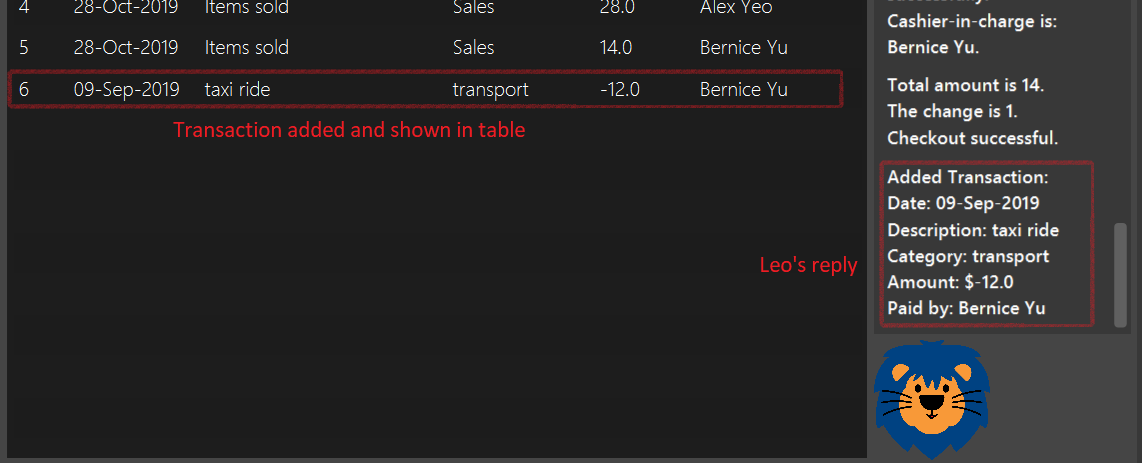
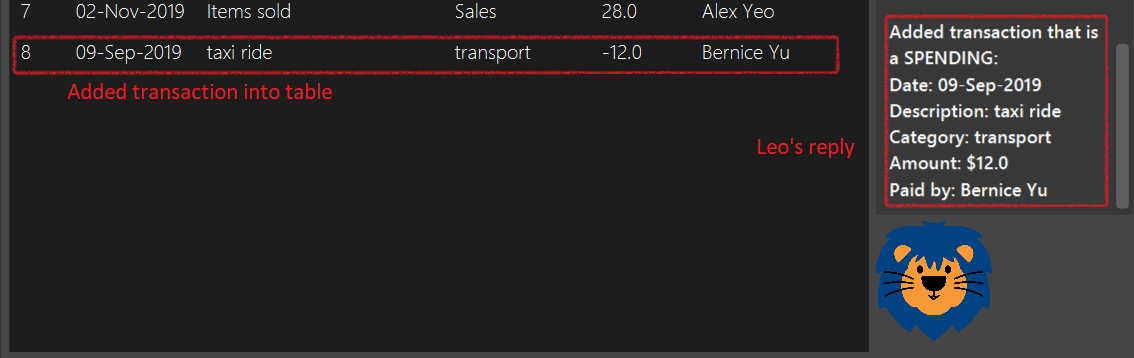
Edits response messages for Leo for transactions.

diff --git a/src/test/java/seedu/address/transaction/logic/commands/EditCommandTest.java b/src/test/java/seedu/address/transaction/logic/commands/EditCommandTest.java
@@ -6,8 +6,9 @@ import static seedu.address.testutil.TypicalPersons.getTypicalAddressBook;
 import static seedu.address.transaction.logic.commands.CommandTestUtil.assertCommandFailure;
 import static seedu.address.transaction.logic.commands.CommandTestUtil.assertCommandSuccess;
 import static seedu.address.transaction.logic.commands.CommandTestUtil.showTransactionsOfPerson;
+import static seedu.address.transaction.ui.TransactionMessages.MESSAGE_NEGATIVE_TRANSACTION_EDITED;
 import static seedu.address.transaction.ui.TransactionMessages.MESSAGE_NO_SUCH_TRANSACTION;
-import static seedu.address.transaction.ui.TransactionMessages.MESSAGE_TRANSACTION_EDITED;
+import static seedu.address.transaction.ui.TransactionMessages.MESSAGE_POSITIVE_TRANSACTION_EDITED;
 
 import org.junit.jupiter.api.Test;
 
@@ -18,6 +19,7 @@ import seedu.address.testutil.EditTransactionDescriptorBuilder;
 import seedu.address.testutil.TransactionBuilder;
 import seedu.address.testutil.TypicalPersons;
 import seedu.address.testutil.TypicalTransactions;
+import seedu.address.transaction.model.Model;
 import seedu.address.transaction.model.ModelManager;
 import seedu.address.transaction.model.transaction.Transaction;
 
@@ -35,7 +37,7 @@ class EditCommandTest {
                 .build();
         EditCommand editCommand = new EditCommand(1, descriptor);
 
-        String expectedMessage = String.format(MESSAGE_TRANSACTION_EDITED, editedTransaction);
+        String expectedMessage = String.format(MESSAGE_POSITIVE_TRANSACTION_EDITED, editedTransaction);
 
         ModelManager expectedModel = new ModelManager(TypicalTransactions.getTypicalTransactionList());
         expectedModel.setTransaction(model.getFilteredList().get(0), editedTransaction);
@@ -54,7 +56,7 @@ class EditCommandTest {
                 .build();
         EditCommand editCommand = new EditCommand(filterListSize, descriptor);
 
-        String expectedMessage = String.format(MESSAGE_TRANSACTION_EDITED, editedTransaction);
+        String expectedMessage = String.format(MESSAGE_POSITIVE_TRANSACTION_EDITED, editedTransaction);
 
         ModelManager expectedModel = new ModelManager(TypicalTransactions.getTypicalTransactionList());
         expectedModel.setTransaction(lastTransaction, editedTransaction);;
@@ -67,9 +69,23 @@ class EditCommandTest {
         EditCommand editCommand = new EditCommand(1, new EditCommand.EditTransactionDescriptor());
         Transaction editedTransaction = model.getFilteredList().get(0);
 
-        String expectedMessage = String.format(MESSAGE_TRANSACTION_EDITED, editedTransaction);
+        String expectedMessage = String.format(MESSAGE_POSITIVE_TRANSACTION_EDITED, editedTransaction);
 
         ModelManager expectedModel = new ModelManager(TypicalTransactions.getTypicalTransactionList());
+
+        assertCommandSuccess(editCommand, model, expectedMessage, expectedModel, personModel);
+    }
+
+    @Test
+    public void execute_noFieldSpecifiedUnfilteredListNegativeTransaction_success() {
+        Model model = new ModelManager(new TypicalTransactions().getTransactionListWithReimbursementNeeded());
+        EditCommand editCommand = new EditCommand(1, new EditCommand.EditTransactionDescriptor());
+        Transaction editedTransaction = model.getFilteredList().get(0);
+
+        String expectedMessage = String.format(MESSAGE_NEGATIVE_TRANSACTION_EDITED, editedTransaction);
+
+        ModelManager expectedModel = new ModelManager(new TypicalTransactions()
+                .getTransactionListWithReimbursementNeeded());
 
         assertCommandSuccess(editCommand, model, expectedMessage, expectedModel, personModel);
     }
@@ -84,7 +100,7 @@ class EditCommandTest {
         EditCommand editCommand = new EditCommand(1,
                 new EditTransactionDescriptorBuilder(editedTransaction).build());
 
-        String expectedMessage = String.format(MESSAGE_TRANSACTION_EDITED, editedTransaction);
+        String expectedMessage = String.format(MESSAGE_POSITIVE_TRANSACTION_EDITED, editedTransaction);
 
         ModelManager expectedModel = new ModelManager(TypicalTransactions.getTypicalTransactionList());
         showTransactionsOfPerson(expectedModel, TypicalPersons.BENSON.getName().toString());
@@ -103,7 +119,7 @@ class EditCommandTest {
         EditCommand editCommand = new EditCommand(1,
                 new EditTransactionDescriptorBuilder(editedTransaction).build());
 
-        String expectedMessage = String.format(MESSAGE_TRANSACTION_EDITED, editedTransaction);
+        String expectedMessage = String.format(MESSAGE_POSITIVE_TRANSACTION_EDITED, editedTransaction);
 
         ModelManager expectedModel = new ModelManager(TypicalTransactions.getTypicalTransactionList());
         showTransactionsOfPerson(expectedModel, TypicalPersons.BENSON.getName().toString());
@@ -120,7 +136,7 @@ class EditCommandTest {
         EditCommand editCommand = new EditCommand(1,
                 new EditTransactionDescriptorBuilder().build());
 
-        String expectedMessage = String.format(MESSAGE_TRANSACTION_EDITED, editedTransaction);
+        String expectedMessage = String.format(MESSAGE_POSITIVE_TRANSACTION_EDITED, editedTransaction);
 
         ModelManager expectedModel = new ModelManager(TypicalTransactions.getTypicalTransactionList());
         showTransactionsOfPerson(expectedModel, TypicalPersons.BENSON.getName().toString());

diff --git a/src/test/java/seedu/address/transaction/logic/commands/DeleteIndexCommandTest.java b/src/test/java/seedu/address/transaction/logic/commands/DeleteIndexCommandTest.java
@@ -7,7 +7,8 @@ import static seedu.address.testutil.TypicalPersons.getTypicalAddressBook;
 import static seedu.address.transaction.logic.commands.CommandTestUtil.assertCommandFailure;
 import static seedu.address.transaction.logic.commands.CommandTestUtil.assertCommandSuccess;
 import static seedu.address.transaction.logic.commands.CommandTestUtil.showTransactionsOfPerson;
-import static seedu.address.transaction.ui.TransactionMessages.MESSAGE_DELETE_TRANSACTION;
+import static seedu.address.transaction.ui.TransactionMessages.MESSAGE_DELETE_NEGATIVE_TRANSACTION;
+import static seedu.address.transaction.ui.TransactionMessages.MESSAGE_DELETE_POSITIVE_TRANSACTION;
 
 import java.util.function.Predicate;
 
@@ -37,9 +38,23 @@ class DeleteIndexCommandTest {
     //this uses model stub
     void execute_validIndexUnfilteredList_successful() {
         DeleteIndexCommand deleteIndexCommand = new DeleteIndexCommand(1);
-        String message = String.format(MESSAGE_DELETE_TRANSACTION, TypicalTransactions.ALICE_TRANSACTION_1);
+        String message = String.format(MESSAGE_DELETE_POSITIVE_TRANSACTION, TypicalTransactions.ALICE_TRANSACTION_1);
         ModelManager expectedModel = new
                 ModelManager(TypicalTransactions.getTypicalTransactionList());
+        System.out.println(expectedModel.getTransactionList().get(0));
+        expectedModel.deleteTransaction(1);
+        assertCommandSuccess(deleteIndexCommand, model, message,
+                expectedModel, personModel);
+    }
+
+    @Test
+    void execute_validIndexUnfilteredListNegativeTransaction_successful() {
+        ModelManager model = new ModelManager(new TypicalTransactions().getTransactionListWithReimbursementNeeded());
+        DeleteIndexCommand deleteIndexCommand = new DeleteIndexCommand(1);
+        String message = String.format(MESSAGE_DELETE_NEGATIVE_TRANSACTION,
+                new TypicalTransactions().getTransactionsWithReimbursements().get(0));
+        ModelManager expectedModel = new
+                ModelManager(new TypicalTransactions().getTransactionListWithReimbursementNeeded());
         System.out.println(expectedModel.getTransactionList().get(0));
         expectedModel.deleteTransaction(1);
         assertCommandSuccess(deleteIndexCommand, model, message,
@@ -61,7 +76,8 @@ class DeleteIndexCommandTest {
         showTransactionsOfPerson(model, TypicalPersons.BENSON.getName().toString());
         DeleteIndexCommand deleteCommand = new DeleteIndexCommand(1);
 
-        String expectedMessage = String.format(MESSAGE_DELETE_TRANSACTION, TypicalTransactions.BENSON_TRANSACTION_2);
+        String expectedMessage = String.format(MESSAGE_DELETE_POSITIVE_TRANSACTION,
+                TypicalTransactions.BENSON_TRANSACTION_2);
 
         Model expectedModel = new ModelManager(TypicalTransactions.getTypicalTransactionList());
         expectedModel.deleteTransaction(2);

diff --git a/src/test/java/seedu/address/transaction/logic/commands/AddCommandTest.java b/src/test/java/seedu/address/transaction/logic/commands/AddCommandTest.java
@@ -7,7 +7,8 @@ import static seedu.address.testutil.Assert.assertThrows;
 import static seedu.address.testutil.TypicalPersons.getTypicalAddressBook;
 import static seedu.address.transaction.logic.commands.CommandTestUtil.assertCommandSuccess;
 import static seedu.address.transaction.logic.commands.CommandTestUtil.showTransactionsOfPerson;
-import static seedu.address.transaction.ui.TransactionMessages.MESSAGE_ADD_TRANSACTION;
+import static seedu.address.transaction.ui.TransactionMessages.MESSAGE_ADD_NEGATIVE_TRANSACTION;
+import static seedu.address.transaction.ui.TransactionMessages.MESSAGE_ADD_POSITIVE_TRANSACTION;
 
 import java.util.Arrays;
 
@@ -41,7 +42,21 @@ class AddCommandTest {
                 new TransactionModelStubAcceptingTransactionAdded();
         //modelStubWithTrans.addTransaction(validTransaction);
         CommandResult commandResult = new AddCommand(validTransaction).execute(modelStubWithTrans, modelStubWithPerson);
-        assertEquals(String.format(MESSAGE_ADD_TRANSACTION, validTransaction),
+        assertEquals(String.format(MESSAGE_ADD_POSITIVE_TRANSACTION, validTransaction),
+                commandResult.getFeedbackToUser());
+        assertEquals(Arrays.asList(validTransaction), modelStubWithTrans.getTransactionsAdded());
+    }
+
+    @Test
+    public void execute_personAcceptedByModelNegativeTransaction_addSuccessful() {
+        Person validPerson = new PersonBuilder().build();
+        PersonModelStubWithPerson modelStubWithPerson = new PersonModelStubWithPerson(validPerson);
+        Transaction validTransaction = new TransactionBuilder(validPerson).withAmount(-99).build();
+        TransactionModelStubAcceptingTransactionAdded modelStubWithTrans =
+                new TransactionModelStubAcceptingTransactionAdded();
+        //modelStubWithTrans.addTransaction(validTransaction);
+        CommandResult commandResult = new AddCommand(validTransaction).execute(modelStubWithTrans, modelStubWithPerson);
+        assertEquals(String.format(MESSAGE_ADD_NEGATIVE_TRANSACTION, validTransaction),
                 commandResult.getFeedbackToUser());
         assertEquals(Arrays.asList(validTransaction), modelStubWithTrans.getTransactionsAdded());
     }
@@ -58,7 +73,7 @@ class AddCommandTest {
         showTransactionsOfPerson(expectedModel, TypicalPersons.ALICE.getName().toString());
         expectedModel.resetPredicate();
         expectedModel.addTransaction(transaction);
-        String message = String.format(MESSAGE_ADD_TRANSACTION, transaction);
+        String message = String.format(MESSAGE_ADD_POSITIVE_TRANSACTION, transaction);
         assertCommandSuccess(addCommand, model, message, expectedModel, personModel);
     }
 

diff --git a/src/test/java/seedu/address/transaction/logic/commands/DeleteNameCommandTest.java b/src/test/java/seedu/address/transaction/logic/commands/DeleteNameCommandTest.java
@@ -42,7 +42,7 @@ class DeleteNameCommandTest {
     @Test
     void execute_unFilteredList_successful() {
         DeleteNameCommand deleteNameCommand = new DeleteNameCommand(TypicalPersons.ALICE);
-        String message = String.format(String.format(MESSAGE_DELETE_BY_PERSON, TypicalPersons.ALICE));
+        String message = String.format(String.format(MESSAGE_DELETE_BY_PERSON, TypicalPersons.ALICE.getName()));
         ModelManager expectedModel = new ModelManager(TypicalTransactions.getTypicalTransactionList());
         expectedModel.deleteAllTransactionOfPerson(TypicalPersons.ALICE);
         assertCommandSuccess(deleteNameCommand, model, message,
@@ -53,7 +53,7 @@ class DeleteNameCommandTest {
     void execute_filteredList_successful() {
         showTransactionsOfPerson(model, TypicalPersons.ALICE.getName().toString());
         DeleteNameCommand deleteNameCommand = new DeleteNameCommand(TypicalPersons.ALICE);
-        String message = String.format(String.format(MESSAGE_DELETE_BY_PERSON, TypicalPersons.ALICE));
+        String message = String.format(String.format(MESSAGE_DELETE_BY_PERSON, TypicalPersons.ALICE.getName()));
         ModelManager expectedModel = new ModelManager(TypicalTransactions.getTypicalTransactionList());
         expectedModel.deleteAllTransactionOfPerson(TypicalPersons.ALICE);
         showNoTransaction(expectedModel);
@@ -72,7 +72,7 @@ class DeleteNameCommandTest {
     void execute_noTransactionOfPersonSpecifiedFilteredListButInTransactionList_successful() {
         showTransactionsOfPerson(model, TypicalPersons.ALICE.getName().toString());
         DeleteNameCommand deleteNameCommand = new DeleteNameCommand(TypicalPersons.BENSON);
-        String message = String.format(String.format(MESSAGE_DELETE_BY_PERSON, TypicalPersons.BENSON));
+        String message = String.format(String.format(MESSAGE_DELETE_BY_PERSON, TypicalPersons.BENSON.getName()));
         ModelManager expectedModel = new ModelManager(TypicalTransactions.getTypicalTransactionList());
         showTransactionsOfPerson(expectedModel, TypicalPersons.ALICE.getName().toString());
         expectedModel.deleteAllTransactionOfPerson(TypicalPersons.BENSON);

diff --git a/src/main/java/seedu/address/transaction/ui/TransactionMessages.java b/src/main/java/seedu/address/transaction/ui/TransactionMessages.java
@@ -52,15 +52,29 @@ public class TransactionMessages {
     public static final String MESSAGE_NO_SUCH_TRANSACTION_OF_PERSON = "Sorry! There is no such transaction of the "
             + "inputted person.";
 
-    public static final String MESSAGE_TRANSACTION_EDITED = "Edited Transaction:\n%s";
+    public static final String MESSAGE_POSITIVE_TRANSACTION_EDITED = "Edited transaction that is a EARNING:\n%s";
+
+    public static final String MESSAGE_NEGATIVE_TRANSACTION_EDITED = "Edited transaction that is a SPENDING:\n%s";
 
     public static final String MESSAGE_FIND_COMMAND = "I've found %s matching transactions!";
 
-    public static final String MESSAGE_ADD_TRANSACTION = "Added Transaction:\n%s";
+    public static final String MESSAGE_ADD_POSITIVE_TRANSACTION = "Added Transaction that is an EARNING:\n%s";
 
-    public static final String MESSAGE_DELETE_TRANSACTION = "Deleted Transaction:\n%s";
+    public static final String MESSAGE_ADD_NEGATIVE_TRANSACTION = "Added transaction that is a SPENDING:\n%s";
+
+    public static final String MESSAGE_DELETE_POSITIVE_TRANSACTION = "Deleted Transaction that is an EARNING:\n%s";
+
+    public static final String MESSAGE_DELETE_NEGATIVE_TRANSACTION = "Deleted Transaction that is a SPENDING:\n%s";
 
     public static final String MESSAGE_DELETE_BY_PERSON = "I've deleted all transactions by this member:\n%s";
 
     public static final String MESSAGE_WRONG_AMOUNT_FORMAT = "Sorry! The amount should be a number.";
+
+    public static final String MESSAGE_AMOUNT_TOO_LARGE = "Sorry! The amount entered for the positive transaction "
+            + "is too large. Try to separate it into a few transactions instead!";
+
+    public static final String MESSAGE_AMOUNT_TOO_SMALL = "Sorry! The amount entered for the negative transaction "
+            + "is too small. Try to separate it into a few transactions instead!";
+
+
 }

diff --git a/src/main/java/seedu/address/transaction/logic/parser/AddCommandParser.java b/src/main/java/seedu/address/transaction/logic/parser/AddCommandParser.java
@@ -28,6 +28,8 @@ import seedu.address.util.Prefix;
  * Parses input arguments and creates a new AddCommand object
  */
 public class AddCommandParser implements CommandParserWithPersonModel {
+    private static final double MAX_AMOUNT_ACCEPTED = 9999.9;
+    private static final double MIN_AMOUNT_ACCEPTED = -9999.9;
     private final Logger logger = LogsCenter.getLogger(getClass());
 
 
@@ -56,6 +58,11 @@ public class AddCommandParser implements CommandParserWithPersonModel {
         String amountString = argMultimap.getValue(PREFIX_AMOUNT).get();
         try {
             double amount = Double.parseDouble(amountString);
+            if (amount > MAX_AMOUNT_ACCEPTED) {
+                throw new ParseException(TransactionMessages.MESSAGE_AMOUNT_TOO_LARGE);
+            } else if (amount < MIN_AMOUNT_ACCEPTED) {
+                throw new ParseException(TransactionMessages.MESSAGE_AMOUNT_TOO_SMALL);
+            }
             Person person = personModel.getPersonByName(argMultimap.getValue(PREFIX_PERSON).get());
             Transaction transaction = new Transaction(datetime, description, category, amount, person,
                     0, false);
@@ -68,9 +75,7 @@ public class AddCommandParser implements CommandParserWithPersonModel {
             throw new ParseException(TransactionMessages.MESSAGE_WRONG_DATE_FORMAT);
         } catch (NumberFormatException e) {
             throw new ParseException(TransactionMessages.MESSAGE_WRONG_AMOUNT_FORMAT);
-        } /*catch (e) {
-            throw new ParseException(TransactionMessages.MESSAGE_INVALID_ADD_COMMAND_FORMAT);
-        }*/
+        }
     }
 
     /**

diff --git a/src/main/java/seedu/address/transaction/model/transaction/Transaction.java b/src/main/java/seedu/address/transaction/model/transaction/Transaction.java
@@ -13,6 +13,7 @@ public class Transaction {
 
     public static final DateTimeFormatter DATE_TIME_FORMATTER = DateTimeFormatter.ofPattern("dd-MMM-yyyy");
     public static final DecimalFormat DECIMAL_FORMAT = new DecimalFormat("#.##");
+    public static final double TO_REMOVE_NEGATIVE_SIGN = -1.0;
     private LocalDate date;
     private String description;
     private String category;
@@ -98,6 +99,22 @@ public class Transaction {
         return isReimbursed ? "1" : "0";
     }
 
+    public boolean isNegative() {
+        return this.amount < 0;
+    }
+
+    /**
+     * Returns the amount without the negative sign if it is negative.
+     * @return Amount
+     */
+    public double getAmountWithoutNegativeSign() {
+        if (isNegative()) {
+            return TO_REMOVE_NEGATIVE_SIGN * amount;
+        } else {
+            return amount;
+        }
+    }
+
     /**
      *Formats the Transaction object to be written into a text file.
      * @return Formatted String.
@@ -115,7 +132,8 @@ public class Transaction {
     public String toString() {
         String msg = "Date: " + this.date.format(DATE_TIME_FORMATTER) + "\nDescription: " + this.description
                 + "\nCategory: "
-                + this.category + "\nAmount: $" + this.amount + "\nPaid by: " + this.person.getName();
+                + this.category + "\nAmount: $" + getAmountWithoutNegativeSign()
+                + "\nPaid by: " + this.person.getName();
         return msg;
     }
 

diff --git a/src/main/java/seedu/address/transaction/logic/commands/EditCommand.java b/src/main/java/seedu/address/transaction/logic/commands/EditCommand.java
@@ -1,8 +1,9 @@
 package seedu.address.transaction.logic.commands;
 
 import static java.util.Objects.requireNonNull;
+import static seedu.address.transaction.ui.TransactionMessages.MESSAGE_NEGATIVE_TRANSACTION_EDITED;
 import static seedu.address.transaction.ui.TransactionMessages.MESSAGE_NO_SUCH_TRANSACTION;
-import static seedu.address.transaction.ui.TransactionMessages.MESSAGE_TRANSACTION_EDITED;
+import static seedu.address.transaction.ui.TransactionMessages.MESSAGE_POSITIVE_TRANSACTION_EDITED;
 
 import java.util.Optional;
 import java.util.logging.Logger;
@@ -56,7 +57,11 @@ public class EditCommand extends Command {
             throw new CommandException(MESSAGE_DUPLICATE_TRANSACTION);
         }*/
         model.setTransaction(transactionToEdit, editedTransaction);
-        return new CommandResult(String.format(MESSAGE_TRANSACTION_EDITED, editedTransaction));
+        if (editedTransaction.isNegative()) {
+            return new CommandResult(String.format(MESSAGE_NEGATIVE_TRANSACTION_EDITED, editedTransaction));
+        } else {
+            return new CommandResult(String.format(MESSAGE_POSITIVE_TRANSACTION_EDITED, editedTransaction));
+        }
     }
 
     /**

diff --git a/src/main/java/seedu/address/transaction/logic/commands/AddCommand.java b/src/main/java/seedu/address/transaction/logic/commands/AddCommand.java
@@ -1,7 +1,8 @@
 package seedu.address.transaction.logic.commands;
 
 import static java.util.Objects.requireNonNull;
-import static seedu.address.transaction.ui.TransactionMessages.MESSAGE_ADD_TRANSACTION;
+import static seedu.address.transaction.ui.TransactionMessages.MESSAGE_ADD_NEGATIVE_TRANSACTION;
+import static seedu.address.transaction.ui.TransactionMessages.MESSAGE_ADD_POSITIVE_TRANSACTION;
 
 import seedu.address.transaction.model.Model;
 import seedu.address.transaction.model.transaction.Transaction;
@@ -25,7 +26,11 @@ public class AddCommand extends Command {
     public CommandResult execute(Model model, seedu.address.person.model.GetPersonByNameOnlyModel personModel) {
         model.resetPredicate();
         model.addTransaction(transaction);
-        return new CommandResult(String.format(MESSAGE_ADD_TRANSACTION, transaction));
+        if (transaction.isNegative()) {
+            return new CommandResult(String.format(MESSAGE_ADD_NEGATIVE_TRANSACTION, transaction));
+        } else {
+            return new CommandResult(String.format(MESSAGE_ADD_POSITIVE_TRANSACTION, transaction));
+        }
     }
 
     @Override

diff --git a/src/main/java/seedu/address/transaction/logic/commands/DeleteIndexCommand.java b/src/main/java/seedu/address/transaction/logic/commands/DeleteIndexCommand.java
@@ -1,7 +1,8 @@
 package seedu.address.transaction.logic.commands;
 
 import static java.util.Objects.requireNonNull;
-import static seedu.address.transaction.ui.TransactionMessages.MESSAGE_DELETE_TRANSACTION;
+import static seedu.address.transaction.ui.TransactionMessages.MESSAGE_DELETE_NEGATIVE_TRANSACTION;
+import static seedu.address.transaction.ui.TransactionMessages.MESSAGE_DELETE_POSITIVE_TRANSACTION;
 
 import seedu.address.transaction.logic.parser.exception.ParseException;
 import seedu.address.transaction.model.Model;
@@ -34,7 +35,11 @@ public class DeleteIndexCommand extends DeleteCommand {
         } catch (IndexOutOfBoundsException e) {
             throw new ParseException(TransactionMessages.MESSAGE_NO_SUCH_TRANSACTION);
         }
-        return new CommandResult(String.format(MESSAGE_DELETE_TRANSACTION, transaction));
+        if (transaction.isNegative()) {
+            return new CommandResult(String.format(MESSAGE_DELETE_NEGATIVE_TRANSACTION, transaction));
+        } else {
+            return new CommandResult(String.format(MESSAGE_DELETE_POSITIVE_TRANSACTION, transaction));
+        }
     }
 
     @Override

diff --git a/src/main/java/seedu/address/transaction/logic/commands/DeleteNameCommand.java b/src/main/java/seedu/address/transaction/logic/commands/DeleteNameCommand.java
@@ -32,7 +32,7 @@ public class DeleteNameCommand extends DeleteCommand {
                     person.getName().toString()));
         }
         model.deleteAllTransactionOfPerson(person);
-        return new CommandResult(String.format(MESSAGE_DELETE_BY_PERSON, person));
+        return new CommandResult(String.format(MESSAGE_DELETE_BY_PERSON, person.getName()));
     }
 
     @Override
